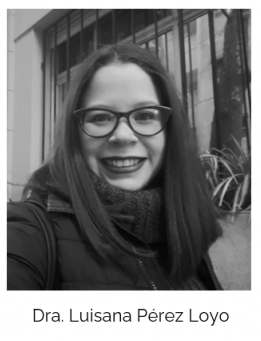
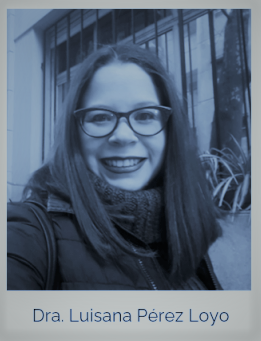
Se agregó un Mapa para las Font-Sizes, se utilizó un Map-Get en _contacto.scss, se utilizó @extend en _nosotros.scss, y se realizó un Mixin para el uso de flex en _index.scss

diff --git a/css/main.css b/css/main.css
@@ -1,6 +1,21 @@
 @charset "UTF-8";
 /*Imports*/
 /*MISELANEOUS*/
+.fs-xlarge {
+  font-size: 3.2rem; }
+
+.fs-large {
+  font-size: 2.4rem; }
+
+.fs-medium {
+  font-size: 2rem; }
+
+.fs-small {
+  font-size: 1.6rem; }
+
+.fs-xsmall {
+  font-size: 1.4rem; }
+
 /*Reset*/
 * {
   margin: 0;
@@ -36,6 +51,7 @@ h2 {
 p {
   font-size: 1.6rem; }
 
+/*Mixins*/
 /*PARTIALS*/
 header {
   background-color: #2c4844; }
@@ -55,7 +71,6 @@ header {
       transform: rotate(70deg); }
 
 .header__menu {
-  font-size: 1.5rem;
   display: flex;
   list-style-type: none;
   justify-content: space-evenly;
@@ -159,7 +174,6 @@ header {
       padding: 12px 24px;
       color: #122022;
       text-align: left;
-      font-size: 2rem;
       text-decoration: none;
       transition-duration: 0.25s; } }
 
@@ -194,14 +208,12 @@ header {
     .news .article__title {
       color: #47524f;
       text-align: center;
-      font-size: 2.4rem;
       font-style: oblique;
       font-weight: bold;
       padding-top: 3rem; }
     .news .article__text {
       color: #0d0d0d;
       text-align: justify;
-      font-size: 1.6rem;
       font-style: normal;
       font-weight: normal;
       margin-top: 2rem;
@@ -231,6 +243,8 @@ header {
   display: flex;
   flex-direction: column;
   align-items: center;
+  justify-content: nowrap;
+  flex-wrap: nowrap;
   background-color: rgba(63, 68, 68, 0.068);
   margin-top: 2rem;
   padding-top: 2rem;
@@ -262,8 +276,10 @@ header {
   .destacadas__grilla {
     grid-area: prop;
     display: flex;
-    flex-wrap: wrap;
-    justify-content: space-evenly; }
+    flex-direction: row;
+    align-items: center;
+    justify-content: space-evenly;
+    flex-wrap: wrap; }
   .destacadas__gallery {
     margin: 1rem;
     width: 27rem; }
@@ -299,11 +315,14 @@ header {
   .nosotros__card {
     margin: 1rem;
     width: 20rem; }
-  .nosotros__img {
-    width: 18rem;
-    height: auto; }
-    .nosotros__img:hover {
+  .nosotros__img, .nosotros__img--Pia {
+    width: 20rem;
+    height: auto;
+    filter: grayscale(100%); }
+    .nosotros__img:hover, .nosotros__img--Pia:hover {
       transform: scale(1.1); }
+    .nosotros__img--Pia {
+      filter: none; }
   .nosotros__text {
     text-align: center;
     padding: 0 1rem;
@@ -329,8 +348,7 @@ header {
   margin-bottom: 4rem;
   margin-top: 2rem;
   background-color: #d6e6ec;
-  width: 40rem;
-  font-size: 1.4rem; }
+  width: 40rem; }
   .tablaDatos td {
     padding: 1rem;
     text-align: left;
@@ -383,11 +401,14 @@ header {
 
 @media screen and (max-width: 768px) {
   .tablaDatos {
-    max-width: 95vw; }
+    max-width: 95vw;
+    font-size: 1.4rem; }
   .form {
     display: none; }
   .contacto__map {
     display: block;
     margin: 1rem auto;
     width: 90vw;
-    height: 20rem; } }
+    height: 20rem; }
+  main {
+    margin-top: 14rem; } }

diff --git a/secciones/novedades.html b/secciones/novedades.html
@@ -33,7 +33,7 @@
           </a>
         </picture>
 
-        <ul class="header__menu">
+        <ul class="header__menu fs-small">
           <li><a href="../index.html">Home</a></li>
           <li><a href="../secciones/nosotros.html">Nosotros</a></li>
           <li><a href="../secciones/propiedades.html">PROPIEDADES</a></li>
@@ -58,8 +58,10 @@
           <span></span>
         </label>
 
-        <ul class="mmenu__box">
-          <li><a class="mmenu__item" href="../index.html">Home</a></li>
+        <ul class="mmenu__box fs-medium">
+          <li>
+            <a class="mmenu__item" href="../index.html">Home</a>
+          </li>
           <li>
             <a class="mmenu__item" href="./nosotros.html">Nosotros</a>
           </li>
@@ -81,8 +83,8 @@
 
       <div class="news">
         <article class="article">
-          <h2 class="article__title">¿Qué es el Home Staging?</h2>
-          <p class="article__text">
+          <h2 class="article__title fs-large">¿Qué es el Home Staging?</h2>
+          <p class="article__text fs-small">
             “Home Staging” se traduce del inglés como “Puesta en Escena de la
             Propiedad”, y es justamente eso: la preparación previa de la
             propiedad que se quiere vender o alquilar, para que la misma se
@@ -116,8 +118,8 @@
         </article>
 
         <article class="article">
-          <h2 class="article__title">Barrio - Puerto Madero</h2>
-          <p class="article__text">
+          <h2 class="article__title fs-large">Barrio - Puerto Madero</h2>
+          <p class="article__text fs-small">
             Puerto Madero es uno de los 48 barrios porteños. El barrio debe su
             nombre a Eduardo Madero, cuyo proyecto para la creación de un puerto
             ara ciudad fue seleccionado en 1882. Sin embargo, unos diez años

diff --git a/secciones/nosotros.html b/secciones/nosotros.html
@@ -33,7 +33,7 @@
           </a>
         </picture>
 
-        <ul class="header__menu">
+        <ul class="header__menu fs-small">
           <li><a href="../index.html">Home</a></li>
           <li><a href="../secciones/nosotros.html">Nosotros</a></li>
           <li><a href="../secciones/propiedades.html">PROPIEDADES</a></li>
@@ -58,7 +58,7 @@
           <span></span>
         </label>
 
-        <ul class="mmenu__box">
+        <ul class="mmenu__box fs-medium">
           <li><a class="mmenu__item" href="../index.html">Home</a></li>
           <li>
             <a class="mmenu__item" href="./nosotros.html">Nosotros</a>
@@ -81,7 +81,7 @@
 
         <div class="nosotros__items">
           <div class="nosotros__card">
-              <img class="nosotros__img"
+              <img class="nosotros__img nosotros__img--Pia"
                 src="../imagenes/piapasqualini.png"
                 alt="Foto de Pia Pasqualini"
               />

diff --git a/secciones/propiedades.html b/secciones/propiedades.html
@@ -33,7 +33,7 @@
           </a>
         </picture>
 
-        <ul class="header__menu">
+        <ul class="header__menu fs-small">
           <li><a href="../index.html">Home</a></li>
           <li><a href="../secciones/nosotros.html">Nosotros</a></li>
           <li><a href="../secciones/propiedades.html">PROPIEDADES</a></li>
@@ -58,7 +58,7 @@
           <span></span>
         </label>
 
-        <ul class="mmenu__box">
+        <ul class="mmenu__box fs-medium">
           <li><a class="mmenu__item" href="../index.html">Home</a></li>
           <li>
             <a class="mmenu__item" href="./nosotros.html">Nosotros</a>

diff --git a/index.html b/index.html
@@ -35,7 +35,7 @@
           </a>
         </picture>
 
-        <ul class="header__menu">
+        <ul class="header__menu fs-small">
           <li><a href="index.html">Home</a></li>
           <li><a href="secciones/nosotros.html">Nosotros</a></li>
           <li><a href="secciones/propiedades.html">PROPIEDADES</a></li>
@@ -60,7 +60,7 @@
           <span></span>
         </label>
 
-        <ul class="mmenu__box">
+        <ul class="mmenu__box fs-medium">
           <li><a class="mmenu__item" href="index.html">Home</a></li>
           <li>
             <a class="mmenu__item" href="secciones/nosotros.html">Nosotros</a>

diff --git a/sass/views/_index.scss b/sass/views/_index.scss
@@ -6,9 +6,7 @@
 }
 
 .presentacion {
-  display: flex;
-  flex-direction: column;
-  align-items: center;
+  @include flex(flex, column, center, nowrap);
   background-color: rgba(63, 68, 68, 0.068);
   margin-top: 2rem;
   padding-top: 2rem;
@@ -49,9 +47,7 @@
 
   &__grilla {
     grid-area: prop;
-    display: flex;
-    flex-wrap: wrap;
-    justify-content: space-evenly;
+    @include flex(flex, row, center, space-evenly, wrap);
   }
 
   &__gallery {

diff --git a/sass/views/_novedades.scss b/sass/views/_novedades.scss
@@ -11,7 +11,7 @@
     &__title {
       color: hsl(164, 7%, 30%);
       text-align: center;
-      font-size: 2.4rem;
+      // font-size: 2.4rem;
       font-style: oblique;
       font-weight: bold;
       padding-top: 3rem;
@@ -20,7 +20,7 @@
     &__text {
       color: hsl(0, 0%, 5%);
       text-align: justify;
-      font-size: 1.6rem;
+      // font-size: 1.6rem;
       font-style: normal;
       font-weight: normal;
       margin-top: 2rem;

diff --git a/sass/views/_contacto.scss b/sass/views/_contacto.scss
@@ -6,7 +6,6 @@
   margin-top: 2rem;
   background-color: rgb(214, 230, 236);
   width: 40rem;
-  font-size: 1.4rem;
 
   td {
     padding: 1rem;
@@ -79,6 +78,7 @@
 @media screen and (max-width: 768px) {
   .tablaDatos {
     max-width: 95vw;
+    font-size: map-get($fontSize, xsmall);
   }
 
   .form {
@@ -90,5 +90,9 @@
     margin: 1rem auto;
     width: 90vw;
     height: 20rem;
+  }
+
+  main {
+    margin-top: 14rem;
   }
 }

diff --git a/sass/partials/_header.scss b/sass/partials/_header.scss
@@ -22,7 +22,6 @@ header {
 }
 
 .header__menu {
-  font-size: 1.5rem;
   display: flex;
   list-style-type: none;
   justify-content: space-evenly;
@@ -160,7 +159,6 @@ header {
       padding: 12px 24px;
       color: rgb(18, 32, 34);
       text-align: left;
-      font-size: 2rem;
       text-decoration: none;
       transition-duration: 0.25s;
     }

diff --git a/sass/misc/_mixins.scss b/sass/misc/_mixins.scss
@@ -1,0 +1,14 @@
+/*Mixins*/
+@mixin flex(
+  $display: flex,
+  $flex-direction: column,
+  $align-items: center,
+  $justify-content: space-evenly,
+  $wrap: nowrap
+) {
+  display: $display;
+  flex-direction: $flex-direction;
+  align-items: $align-items;
+  justify-content: $justify-content;
+  flex-wrap: $wrap;
+}

diff --git a/secciones/contacto.html b/secciones/contacto.html
@@ -56,7 +56,7 @@
             <span></span>
           </label>
   
-          <ul class="mmenu__box">
+          <ul class="mmenu__box fs-medium">
             <li><a class="mmenu__item" href="../index.html">Home</a></li>
             <li>
               <a class="mmenu__item" href="./nosotros.html">Nosotros</a>

diff --git a/sass/views/_nosotros.scss b/sass/views/_nosotros.scss
@@ -26,11 +26,17 @@
   }
 
   &__img {
-    width: 18rem;
+    width: 20rem;
     height: auto;
+    filter: grayscale(100%);
 
     &:hover {
       transform: scale(1.1);
+    }
+
+    &--Pia {
+      @extend .nosotros__img;
+      filter: none;
     }
   }
 
